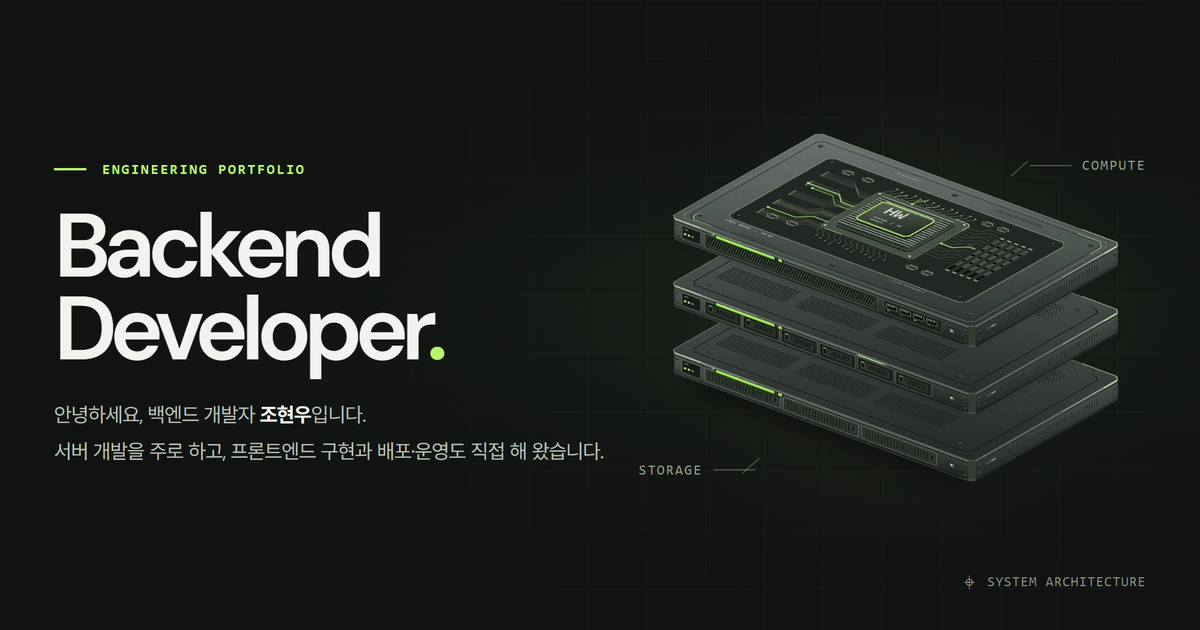
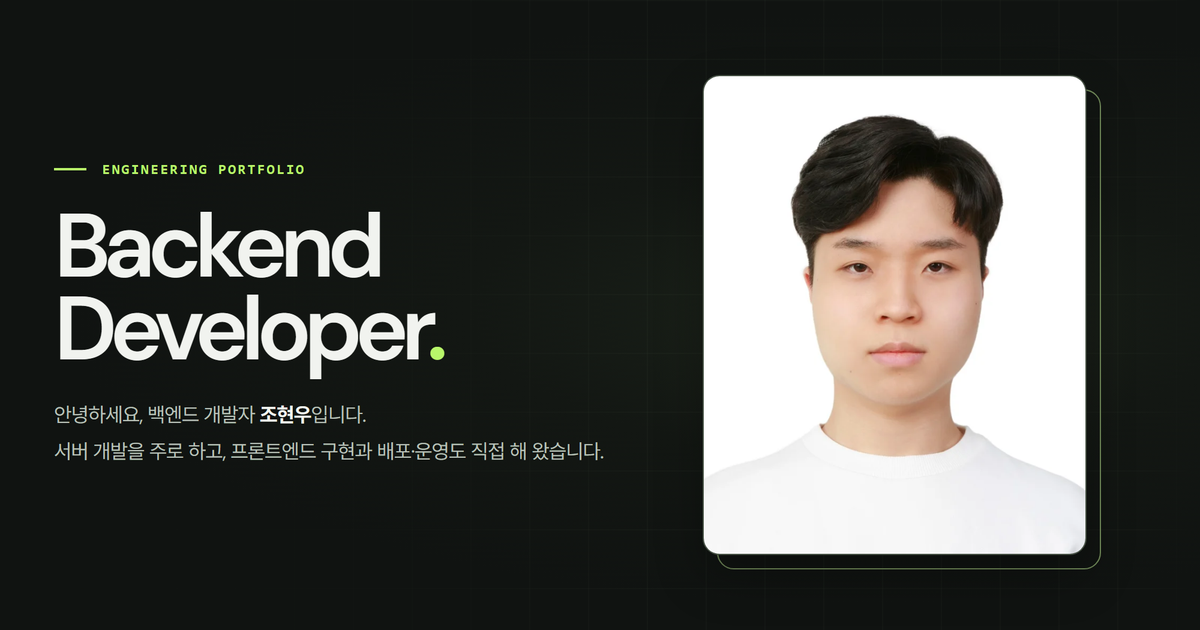
첫 화면 그림을 사진으로 교체
- 서버 그림과 장식 글자를 빼고 사진(4:5)을 넣음
- 링크 미리보기 그림(og-image.png)을 새 첫 화면으로 다시 만듦
- 쓰지 않는 server-stack.webp 삭제

Changed region(s): [[0.5242, 0.1206, 0.9558, 0.9349]]

diff --git a/portfolio-site/src/styles/global.css b/portfolio-site/src/styles/global.css
@@ -421,82 +421,35 @@ mark.todo {
   background: radial-gradient(ellipse, #525b3727, transparent 65%);
 }
 
-.server-art {
+/* 첫 화면 오른쪽의 사진. 4:5 비율로 가운데에 놓는다. */
+.portrait {
   position: absolute;
-  top: 49%;
+  top: 50%;
   left: 50%;
-  width: min(108%, 660px);
-  max-width: none;
-  height: 99%;
-  object-fit: contain;
+  height: min(78%, 400px);
+  aspect-ratio: 4 / 5;
   transform: translate(-50%, -50%);
 }
 
-.drawing-label {
-  position: absolute;
-  display: flex;
-  align-items: center;
-  gap: 9px;
-  color: #94a18e;
-  font: 500 0.715rem/1 var(--mono);
-  letter-spacing: 0.115em;
-}
-
-.label-top {
-  top: 24%;
-  right: 0;
-}
-
-.label-bottom {
-  bottom: 27%;
-  left: 0;
-}
-
-.leader {
-  position: relative;
-  width: clamp(19px, 3.5vw, 56px);
-  height: 14px;
-  border-top: 1px solid #73866a99;
-  transform: translateY(6px);
-}
-
-.label-top .leader::before,
-.label-bottom .leader::after {
+/* 사진 뒤에 조금 어긋나게 놓은 테두리 */
+.portrait::before {
   content: '';
   position: absolute;
-  bottom: 0;
-  width: 19px;
-  height: 13px;
-  border-top: 1px solid #73866a99;
+  inset: 0;
+  z-index: -1;
+  border: 1px solid var(--lime-edge);
+  border-radius: 14px;
+  transform: translate(12px, 12px);
 }
 
-.label-top .leader::before {
-  left: -14px;
-  transform: rotate(-42deg);
-}
-
-.label-bottom .leader::after {
-  top: -6px;
-  right: -10px;
-  transform: rotate(-42deg);
-}
-
-.drawing-caption {
-  position: absolute;
-  right: 0;
-  bottom: 6%;
-  display: flex;
-  align-items: center;
-  gap: 9px;
-  color: var(--faint);
-  font: 0.72rem var(--mono);
-  letter-spacing: 0.055em;
-}
-
-.axis-symbol {
-  color: #a7bd8b;
-  font-size: 1.35rem;
-  line-height: 0.8;
+.portrait-photo {
+  width: 100%;
+  height: 100%;
+  border: 1px solid var(--line-strong);
+  border-radius: 14px;
+  background: #fff;
+  box-shadow: 0 18px 40px #0000004d;
+  object-fit: cover;
 }
 
 /* 404 화면. 첫 화면과 같은 바탕을 쓰고 글만 한 칸으로 놓는다. */
@@ -1934,15 +1887,6 @@ body:has(.lightbox[open]) {
     font-size: clamp(4.25rem, 7.5vw, 4.9rem);
   }
 
-  .label-bottom {
-    bottom: 24%;
-    left: -1%;
-  }
-
-  .label-top {
-    top: 25%;
-  }
-
   .card-body {
     padding: 17px 14px;
   }
@@ -1997,18 +1941,6 @@ body:has(.lightbox[open]) {
   .hero-intro {
     font-size: 1.04rem;
     line-height: 1.75;
-  }
-
-  .drawing-label {
-    font-size: 0.69rem;
-  }
-
-  .label-top {
-    top: 26%;
-  }
-
-  .label-bottom {
-    bottom: 24%;
   }
 
   .section-space {
@@ -2178,30 +2110,12 @@ body:has(.lightbox[open]) {
   .system-art {
     justify-self: center;
     width: min(100%, 440px);
-    height: clamp(222px, 54.5vw, 286px);
-    margin: 5px 0 12px;
+    height: clamp(270px, 76vw, 340px);
+    margin: 22px 0 30px;
   }
 
-  .server-art {
-    top: 49%;
-    width: 95%;
-    height: 102%;
-  }
-
-  .label-top {
-    top: 25%;
-    right: 0;
-  }
-
-  .label-bottom {
-    bottom: 22%;
-    left: 0;
-  }
-
-  .drawing-caption {
-    right: 0;
-    bottom: 0;
-    font-size: 0.66rem;
+  .portrait {
+    height: 100%;
   }
 
   .section-head {

diff --git a/portfolio-site/README.md b/portfolio-site/README.md
@@ -36,7 +36,7 @@ npm run dev
 | `src/components/Todo.astro` | 배포 전에 채워야 하는 값 표시 |
 | `src/layouts/` | 공통 레이아웃(`Base.astro`)과 프로젝트 상세 레이아웃(`Project.astro`) |
 | `src/styles/global.css` | 색상, 글꼴, 화면 폭별 배치, 인쇄용 스타일 |
-| `public/art/` | 첫 화면 그림처럼 디자인에 쓰는 그림. 사진 가져오기 스크립트가 건드리지 않습니다. |
+| `public/art/` | 첫 화면 사진(`profile.webp`)처럼 디자인에 쓰는 그림. 사진 가져오기 스크립트가 건드리지 않습니다. |
 | `scripts/import-images.mjs` | 원본 화면 캡처를 사이트용 WebP 로 바꿔 `public/images` 에 넣는 스크립트 |
 | `scripts/make-site-images.mjs` | 파비콘(`favicon.ico`)과 링크 미리보기 그림(`og-image.png`)을 만드는 스크립트 |
 
